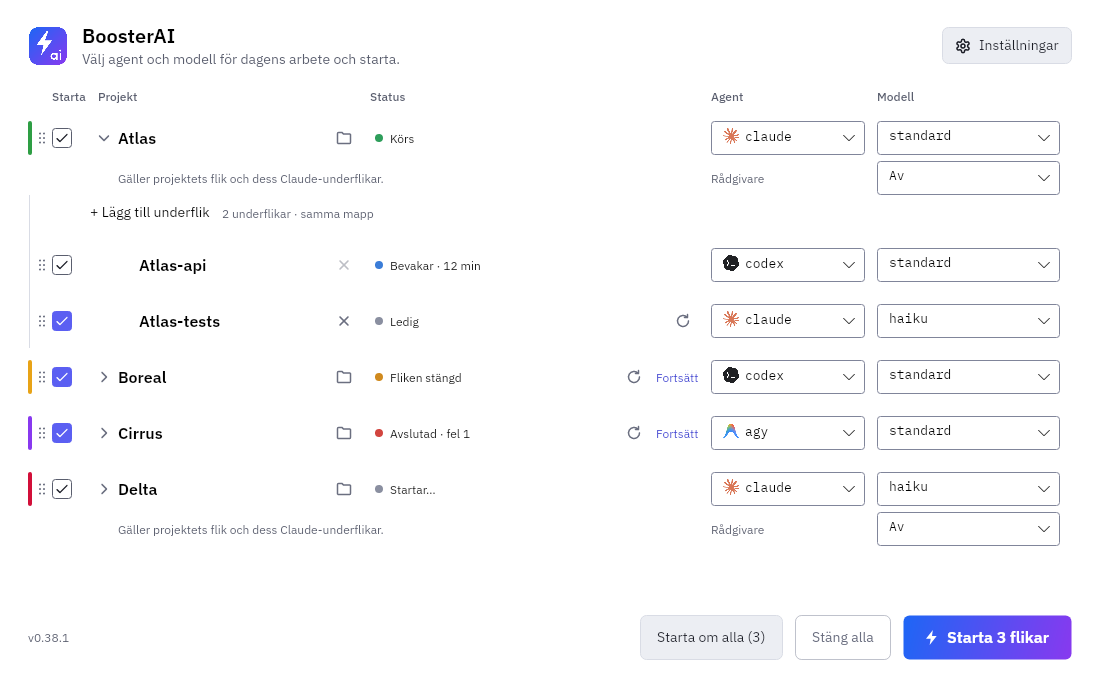
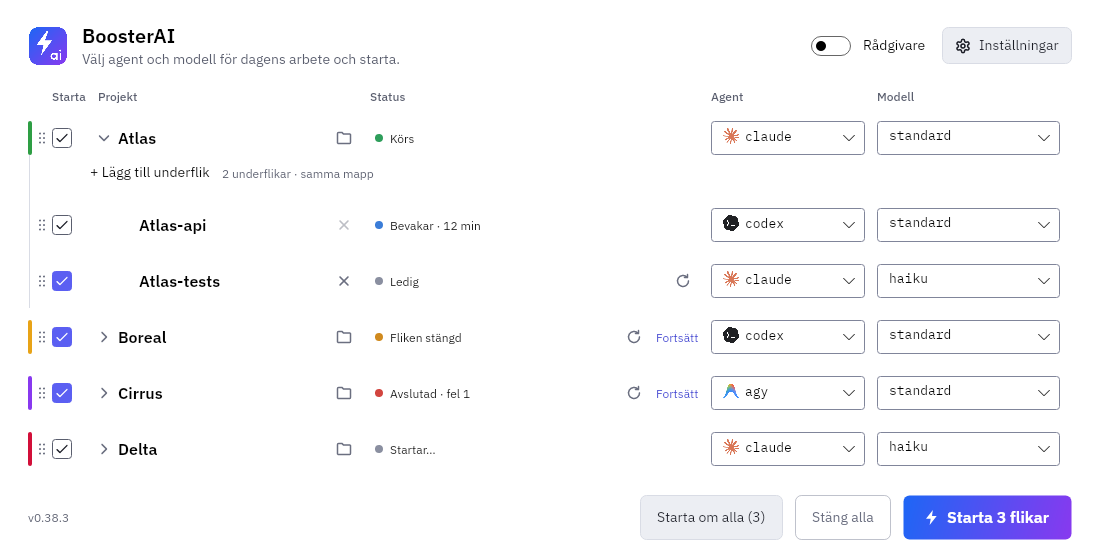
Show the Claude advisor row through a switch beside Settings (#180)
The Advisor row under Claude projects now shows only while the new
Advisor switch at the top right (left of Settings) is on. The switch
appears while a project runs claude, is saved as ShowAdvisor and is off
by default. A project with an advisor chosen keeps its row, and a config
with one starts with the switch on, so an active choice is never hidden.
The switch changes only what is shown, never what is saved or launched.

diff --git a/src/BoosterAI/ViewModels.cs b/src/BoosterAI/ViewModels.cs
@@ -68,6 +68,7 @@ public sealed class TabViewModel : Observable
         _llm = Catalog.Llms.Contains(c.Llm) ? c.Llm : Catalog.DefaultLlm;
         _model = string.IsNullOrWhiteSpace(c.Model) ? Catalog.StandardModel : c.Model;
         _advisor = AdvisorPolicy.Normalize(c.Advisor);
+        _advisorPinned = _advisor != AdvisorPolicy.Disabled;
         _orkester = c.Orkester;
         _nonInteractive = c.NonInteractive;
         PropertyChanged += (_, e) =>
@@ -148,6 +149,13 @@ public sealed class TabViewModel : Observable
     private void AdvisorInputsChanged() => (Parent ?? this).RaiseAdvisorWarning();
     /// <summary>The Advisor choice is shown for a claude project only.</summary>
     public bool CanAdvisor => _llm == "claude";
+    // A chosen advisor keeps its row while the main window's Advisor switch is off, so an active choice is never hidden (#180).
+    // Fixed at load and whenever the switch turns off, so clearing the field while editing does not hide the row mid-edit.
+    private bool _advisorPinned;
+    internal void RaiseAdvisorVisible() => Raise(nameof(AdvisorVisible));
+    internal void PinAdvisor() { _advisorPinned = IsProject && Advisor != AdvisorPolicy.Disabled; Raise(nameof(AdvisorVisible)); }
+    /// <summary>The Advisor row under a claude project: when the main window's switch is on, or this project has an advisor chosen.</summary>
+    public bool AdvisorVisible => IsProject && CanAdvisor && (_owner.ShowAdvisor || _advisorPinned);
     public IReadOnlyList<string> Advisors => AdvisorPolicy.Choices.Select(a => a == AdvisorPolicy.Disabled ? Loc.Get("advisor.off") : a).ToArray();
     /// <summary>Why the chosen advisor is not passed (#172), for this project or any of its subtabs; null when it is fine.</summary>
     public string? AdvisorWarning
@@ -275,6 +283,8 @@ public sealed class TabViewModel : Observable
             Raise(nameof(Models));
             Raise(nameof(IsAi));
             Raise(nameof(CanAdvisor));
+            Raise(nameof(AdvisorVisible));
+            _owner.AdvisorSwitchChanged();
             AdvisorInputsChanged();
             Raise(nameof(CanOrkester));
             Raise(nameof(CanNonInteractive));
@@ -595,6 +605,9 @@ public sealed partial class MainViewModel : Observable
         }
         _projects = Tabs.Where(t => t.IsProject).ToArray();
         _visibleTabs = Tabs.Where(IsVisibleTab).ToArray();
+        // An existing chosen advisor starts with the switch on, so the switch and the visible rows agree (#180).
+        if (_projects.Any(p => p.CanAdvisor && p.Advisor != AdvisorPolicy.Disabled)) cfg.ShowAdvisor = true;
+        AdvisorSwitchChanged();
         OrchestraColumnChanged();
         Tabs.CollectionChanged += (_, _) => TabsChanged();
         Update = new UpdateViewModel(cfg, Save);
@@ -761,6 +774,28 @@ public sealed partial class MainViewModel : Observable
     }
     public bool MinimizeToTray { get => _cfg.MinimizeToTray; set { _cfg.MinimizeToTray = value; Raise(); } }
     public bool Notifications { get => _cfg.Notifications; set { _cfg.Notifications = value; Raise(); } }
+    /// <summary>The main window's Advisor switch (#180): shows the Advisor row under every Claude project.</summary>
+    public bool ShowAdvisor
+    {
+        get => _cfg.ShowAdvisor;
+        set
+        {
+            if (_cfg.ShowAdvisor == value) return;
+            _cfg.ShowAdvisor = value;
+            Raise();
+            foreach (var p in Projects) p.PinAdvisor();
+        }
+    }
+    /// <summary>The Advisor switch shows only while some project runs claude; it has nothing to show otherwise.</summary>
+    public bool CanShowAdvisor => _canShowAdvisor;
+    private bool _canShowAdvisor;
+    internal void AdvisorSwitchChanged()
+    {
+        var can = _projects.Any(p => p.CanAdvisor);
+        if (can == _canShowAdvisor) return;
+        _canShowAdvisor = can;
+        Raise(nameof(CanShowAdvisor));
+    }
     public bool AutoUpdateClis { get => _cfg.AutoUpdateClis; set { _cfg.AutoUpdateClis = value; Raise(); } }
     public bool AutoClearIdle { get => _cfg.AutoClearIdle; set { _cfg.AutoClearIdle = value; Raise(); RefreshContextMode(); } }
     /// <summary>The auto-clear minutes for the number box (decimal? is what it binds); an empty box keeps the last value.</summary>
@@ -858,6 +893,7 @@ public sealed partial class MainViewModel : Observable
         if (!_projects.SequenceEqual(projects))
         {
             _projects = projects;
+            AdvisorSwitchChanged();
             Raise(nameof(Projects));
         }
         var visible = Tabs.Where(IsVisibleTab).ToArray();
@@ -1105,9 +1141,10 @@ public sealed partial class MainViewModel : Observable
         foreach (var editor in _compactEditors.Values) editor.UpdateSettings(_cfg.AutoCompactSettings);
         RefreshCompactMode();
         foreach (var name in new[] { nameof(WslDistro), nameof(LinuxTerminal), nameof(ProjectSearchRoot), nameof(CanResetProjectSearchRoot), nameof(Theme), nameof(SelectedTheme), nameof(SelectedLanguage),
-            nameof(SelectedAppearance), nameof(SelectedAfterLaunch), nameof(MinimizeToTray), nameof(Notifications), nameof(SelectedZoom), nameof(AutoUpdateClis), nameof(AutoClearIdle), nameof(AutoClearMinutes), nameof(CheckForUpdates) })
+            nameof(SelectedAppearance), nameof(SelectedAfterLaunch), nameof(MinimizeToTray), nameof(Notifications), nameof(ShowAdvisor), nameof(SelectedZoom), nameof(AutoUpdateClis), nameof(AutoClearIdle), nameof(AutoClearMinutes), nameof(CheckForUpdates) })
             Raise(name);
         foreach (var t in Tabs) t.RaiseColor();
+        foreach (var p in Projects) p.RaiseAdvisorVisible();
         (Avalonia.Application.Current as App)?.ApplyTheme();
     }
 

diff --git a/tests/BoosterAI.Tests/AdvisorSwitchTests.cs b/tests/BoosterAI.Tests/AdvisorSwitchTests.cs
@@ -1,0 +1,84 @@
+using BoosterAI;
+using Xunit;
+
+/// <summary>The main window's Advisor switch (#180): the Advisor row under Claude projects shows only on demand.</summary>
+[Collection(ConfigFileCollection.Name)]
+public sealed class AdvisorSwitchTests : IDisposable
+{
+    private readonly string _root = Directory.CreateTempSubdirectory("bs-advisor-switch-").FullName;
+
+    public AdvisorSwitchTests() => ConfigStore.UseFile(Path.Combine(_root, "config.json"));
+    public void Dispose() => Directory.Delete(_root, recursive: true);
+
+    [Fact]
+    public void RowsAreHiddenByDefaultAndTheSwitchShowsThemForClaudeProjectsOnly()
+    {
+        var vm = new MainViewModel(new AppConfig { Tabs = [new() { Llm = "claude", Model = "sonnet" }, new() { Llm = "codex" }] });
+        var (claude, codex) = (vm.Tabs[0], vm.Tabs[1]);
+        var child = vm.AddSubTab(claude);
+
+        Assert.True(vm.CanShowAdvisor);
+        Assert.False(vm.ShowAdvisor);
+        Assert.False(claude.AdvisorVisible);
+
+        vm.ShowAdvisor = true;
+        Assert.True(claude.AdvisorVisible);
+        Assert.False(codex.AdvisorVisible);
+        Assert.False(child.AdvisorVisible); // a subtab uses its project's row
+
+        vm.ShowAdvisor = false;
+        Assert.False(claude.AdvisorVisible);
+    }
+
+    [Fact]
+    public void TheSwitchFollowsWhetherAnyProjectRunsClaude()
+    {
+        var vm = new MainViewModel(new AppConfig { Tabs = [new() { Llm = "codex" }] });
+        var project = vm.Tabs[0];
+        var child = vm.AddSubTab(project);
+        Assert.False(vm.CanShowAdvisor);
+
+        child.Llm = "claude"; // a Claude subtab alone has no row to show: the advisor is chosen on the project
+        Assert.False(vm.CanShowAdvisor);
+
+        project.Llm = "claude";
+        Assert.True(vm.CanShowAdvisor);
+
+        project.Llm = "codex";
+        Assert.False(vm.CanShowAdvisor);
+    }
+
+    [Fact]
+    public void AChosenAdvisorIsNeverHiddenAndStartsWithTheSwitchOn()
+    {
+        var vm = new MainViewModel(new AppConfig { Tabs = [new() { Llm = "claude", Model = "sonnet", Advisor = "opus" }, new() { Llm = "claude", Model = "sonnet" }] });
+        var (chosen, off) = (vm.Tabs[0], vm.Tabs[1]);
+        Assert.True(vm.ShowAdvisor);
+
+        vm.ShowAdvisor = false;
+        Assert.True(chosen.AdvisorVisible);
+        Assert.False(off.AdvisorVisible);
+
+        // Clearing the field mid-edit keeps the row; it hides the next time the switch turns off.
+        chosen.Advisor = "";
+        Assert.True(chosen.AdvisorVisible);
+        vm.ShowAdvisor = true;
+        vm.ShowAdvisor = false;
+        Assert.False(chosen.AdvisorVisible);
+
+        // Hiding never changes what is saved or launched.
+        Assert.Equal(AdvisorPolicy.Disabled, chosen.ToConfig(forLaunch: true).Advisor);
+    }
+
+    [Fact]
+    public void TheSwitchIsSavedAndReadBack()
+    {
+        var vm = new MainViewModel(new AppConfig { Tabs = [new() { Llm = "claude", Model = "sonnet" }] });
+        vm.ShowAdvisor = true;
+        vm.Save();
+
+        var reloaded = new MainViewModel(ConfigStore.Load());
+        Assert.True(reloaded.ShowAdvisor);
+        Assert.True(reloaded.Tabs[0].AdvisorVisible);
+    }
+}

diff --git a/src/BoosterAI/Config.cs b/src/BoosterAI/Config.cs
@@ -58,6 +58,8 @@ public sealed class AppConfig
     public bool MinimizeToTray { get; set; } = true;
     /// <summary>System notification when a watched tab closes, fails to start or its CLI fails.</summary>
     public bool Notifications { get; set; } = true;
+    /// <summary>Main window: show the Advisor row under Claude projects (#180). Only display; launches never read it.</summary>
+    public bool ShowAdvisor { get; set; }
     /// <summary>Global CLI zoom in percent of the terminal's default font size; 0 = terminal default (nothing is changed).</summary>
     public int ZoomPercent { get; set; }
     /// <summary>Folder "Find projects" searches; empty means <see cref="ProjectScanner.DefaultRoot"/> (Documents, else home).</summary>
@@ -189,6 +191,7 @@ public static class ConfigMerge
         S(c => c.AfterLaunch, (c, v) => c.AfterLaunch = v),
         S(c => c.MinimizeToTray, (c, v) => c.MinimizeToTray = v),
         S(c => c.Notifications, (c, v) => c.Notifications = v),
+        S(c => c.ShowAdvisor, (c, v) => c.ShowAdvisor = v),
         S(c => c.ZoomPercent, (c, v) => c.ZoomPercent = v),
         S(c => c.ProjectSearchRoot, (c, v) => c.ProjectSearchRoot = v),
         S(c => c.AutoUpdateClis, (c, v) => c.AutoUpdateClis = v),

diff --git a/tests/BoosterAI.Tests/ConfigSaveTests.cs b/tests/BoosterAI.Tests/ConfigSaveTests.cs
@@ -84,7 +84,7 @@ public class ConfigMergeTests
         var disk = new AppConfig
         {
             WslDistro = "Debian", LinuxTerminal = "kitty", ColorTheme = "Other", Language = "en", AppTheme = "dark",
-            AfterLaunch = "close", MinimizeToTray = false, Notifications = false, ZoomPercent = 80, AutoUpdateClis = false, CheckForUpdates = false,
+            AfterLaunch = "close", MinimizeToTray = false, Notifications = false, ShowAdvisor = true, ZoomPercent = 80, AutoUpdateClis = false, CheckForUpdates = false,
             AutoClearIdle = true, AutoClearMinutes = 10, AutoCompactMode = AutoCompactPolicy.Auto,
             SkippedVersion = "9.9.9", LastUpdateCheck = new DateTime(2026, 10, 29, 9, 18, 39, DateTimeKind.Utc),
             DismissedWslOptimization = true, ProjectSearchRoot = "/work/projects",

diff --git a/docs/DETAILS.md b/docs/DETAILS.md
@@ -16,7 +16,7 @@ The app follows the system's light or dark theme; `--theme light` or `--theme da
 
 ## Multiple tabs for one project
 
-Expand a project's chevron on the main page and choose **Add subtab**. Its new row shares the project's folder without adding another project in Settings. Edit the subtab's name directly on the main page, then choose its own AI CLI, model, orchestra and Run once settings. The initial choices copy the main tab; later changes are independent. A Claude project also has an **Advisor** choice below its Agent and Model fields (hidden for other agents), saved as `Advisor` in the config. It stays visible when the project is collapsed and applies to the project tab as well as its Claude subtabs; the scope is stated beside the choice. *Off* is the default, including old empty or *Standard* values. It applies `CLAUDE_CODE_DISABLE_ADVISOR_TOOL=1` only to the Claude command/runner, so a saved Claude advisor cannot activate unexpectedly; no global settings are changed. This also makes `/advisor` unavailable in that process: choose a model in BoosterAI and restart the tab to enable it. Explicit saved model choices are retained. The opt-out also covers restart, Run once and the save-and-close turn. Invalid or disallowed pairings use the same opt-out instead of inheriting a saved advisor. To avoid a doubled token bill the choices are Opus and Fable only, and the advisor is passed only when the tab's model is explicitly Sonnet or Haiku (an Opus/Fable, *Standard* or custom model gets a warning next to the choice and no `--advisor`; subtabs are checked with their own model). Otherwise the value is passed as `--advisor <model>` on start, restart and Run once, and its subtabs inherit it. Changing it on a running tab marks the tab as changed, and an in-place restart continues the conversation like a model change. Each checkbox selects that tab alone: an unticked main tab does not disable its selected subtabs. Collapsing the group only hides its rows; their selection and monitoring keep working.
+Expand a project's chevron on the main page and choose **Add subtab**. Its new row shares the project's folder without adding another project in Settings. Edit the subtab's name directly on the main page, then choose its own AI CLI, model, orchestra and Run once settings. The initial choices copy the main tab; later changes are independent. A Claude project also has an **Advisor** choice below its Agent and Model fields (hidden for other agents), saved as `Advisor` in the config. The row shows only while the **Advisor** switch at the top right, left of Settings, is on; the switch appears while at least one project runs Claude (a Claude subtab alone has no row: the advisor is chosen on its project) and is saved as `ShowAdvisor`, off by default. A project with an advisor chosen keeps its row with the switch off, so an active choice is never hidden, and a config with such a project starts with the switch on; the switch changes only what is shown, never what is saved or launched. The row stays visible when the project is collapsed and applies to the project tab as well as its Claude subtabs; the scope is stated beside the choice. *Off* is the default, including old empty or *Standard* values. It applies `CLAUDE_CODE_DISABLE_ADVISOR_TOOL=1` only to the Claude command/runner, so a saved Claude advisor cannot activate unexpectedly; no global settings are changed. This also makes `/advisor` unavailable in that process: choose a model in BoosterAI and restart the tab to enable it. Explicit saved model choices are retained. The opt-out also covers restart, Run once and the save-and-close turn. Invalid or disallowed pairings use the same opt-out instead of inheriting a saved advisor. To avoid a doubled token bill the choices are Opus and Fable only, and the advisor is passed only when the tab's model is explicitly Sonnet or Haiku (an Opus/Fable, *Standard* or custom model gets a warning next to the choice and no `--advisor`; subtabs are checked with their own model). Otherwise the value is passed as `--advisor <model>` on start, restart and Run once, and its subtabs inherit it. Changing it on a running tab marks the tab as changed, and an in-place restart continues the conversation like a model change. Each checkbox selects that tab alone: an unticked main tab does not disable its selected subtabs. Collapsing the group only hides its rows; their selection and monitoring keep working.
 
 On a fresh Start the order is the main tab, its selected subtabs, then the next project's group. Drag a project's grip (the dots left of its checkbox) to move its whole group, or a subtab's grip to reorder it among its siblings. Without a mouse, focus a row (its grip takes keyboard focus with a visible ring) and press Alt+Up/Down: the row moves one step among the same peers and the order is saved at once; a list with the focus keeps Alt+Down for opening itself. Right-click a row, or press the context-menu key, for **Move up**, **Move down**, **Restart**, **Continue conversation** and **Open in Explorer** (*Open in the file manager* on Linux). A subtab is indented 20 px under its project, with a thin line continuing the project's colour stripe. Already-open terminal tabs are not moved: newly added or reopened tabs join that terminal's existing window where the terminal app places new tabs. The stored group order applies the next time the group starts together. A subtab can be removed with its × after its terminal has closed; an exited CLI with an open idle shell still belongs to that tab. Removing a project in Settings removes its whole configured group, just as removing a project previously removed its one configured tab.
 

diff --git a/README.md b/README.md
@@ -12,7 +12,7 @@ Start your whole working day with one click: BoosterAI opens every project you w
 ## Highlights
 
 - **One click, all your workspaces:** Opens each repository in its own color-coded tab in the right directory. Add subtabs sharing a folder for multi-agent workflows.
-- **Model control:** Pick a model per tab, and for Claude an optional per-project advisor model (`--advisor`; Opus or Fable, only beside a Sonnet or Haiku model so the cost is not doubled; *Off* is the default and also disables a saved Claude advisor for that tab) below Agent and Model in the project row, visible even when subtabs are collapsed. The choice applies to the project tab and its Claude subtabs. Interactive Claude, Codex and Aider tabs can resume after a model change when no other tab shares their CLI and folder; see the [conversation limits](docs/DETAILS.md#multiple-tabs-for-one-project).
+- **Model control:** Pick a model per tab, and for Claude an optional per-project advisor model (`--advisor`; Opus or Fable, only beside a Sonnet or Haiku model so the cost is not doubled; *Off* is the default and also disables a saved Claude advisor for that tab) below Agent and Model in the project row, shown with the **Advisor** switch left of Settings (visible while a project runs Claude; a project with an advisor chosen always shows its row), also when subtabs are collapsed. The choice applies to the project tab and its Claude subtabs. Interactive Claude, Codex and Aider tabs can resume after a model change when no other tab shares their CLI and folder; see the [conversation limits](docs/DETAILS.md#multiple-tabs-for-one-project).
 - **Agent overview:** Recognize each CLI by its icon; manage installation, permissions and context in separate settings sections.
 - **Context budgets:** Choose Off, Clear when idle or Summarize in Memory and context → Context. Summarize offers Auto or Manual budgets; the illustrated Auto guide explains model capacity and task reserves. Tune individual agents in Manual. [How budgets work](docs/DETAILS.md#auto-compaction-budgets).
 - **Local models:** Open Settings → AI agents → **Local models** to compare downloadable models, get a hardware-based starting suggestion and download a chosen model through a local Ollama server. Agent programs and model downloads have separate interfaces. Existing exact-model assessment remains available on the agent pages. [Evidence and limits](docs/DETAILS.md#local-model-hardware-advice).

diff --git a/docs/verification/180/verification.md b/docs/verification/180/verification.md
@@ -1,0 +1,14 @@
+# #180 Advisor switch: verification
+
+Headless renders (`BoosterAI --screenshot … --config <file>`, Release build, Linux/WSL) from the
+neutral configs in this folder; the README previews use `docs/verification/174/default-sv.json`.
+
+| Image | Config | Shows |
+| --- | --- | --- |
+| `off-sv.png` | `off.json` | Switch off: no Advisor rows under the Claude projects |
+| `on-sv.png`, `on-dark-sv.png` | `on.json` | Switch on: the row under each Claude project, none under codex |
+| `on-en.png` | `en.json` | English texts |
+| `noclaude-sv.png` | `noclaude.json` | No Claude project: no switch |
+
+Behaviour (visibility, pinning of a chosen advisor, saving, ConfigMerge) is covered by
+`tests/BoosterAI.Tests/AdvisorSwitchTests.cs` and `ConfigMergeTests`.
